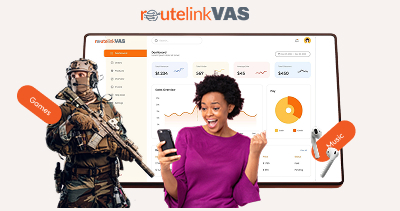
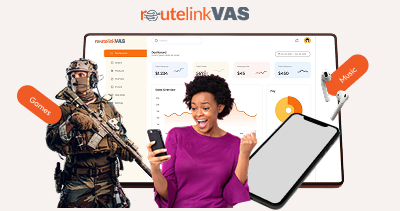
bg and link image update

Changed region(s): [[0.36, 0.3412, 0.9, 0.9953], [0.78, 0.2559, 0.93, 0.5403]]

diff --git a/routelink-vas-main/src/app/services/page.tsx b/routelink-vas-main/src/app/services/page.tsx
@@ -6,7 +6,7 @@ import Howweworksection from "@/components/Howweworksection";
 
 export default function services() {
   return (
-    <main className="bg-white">
+    <main className="bg-[#f0f0f0]">
       <Servicehero />
       <Vascapabilities />
       <Howweworksection />
